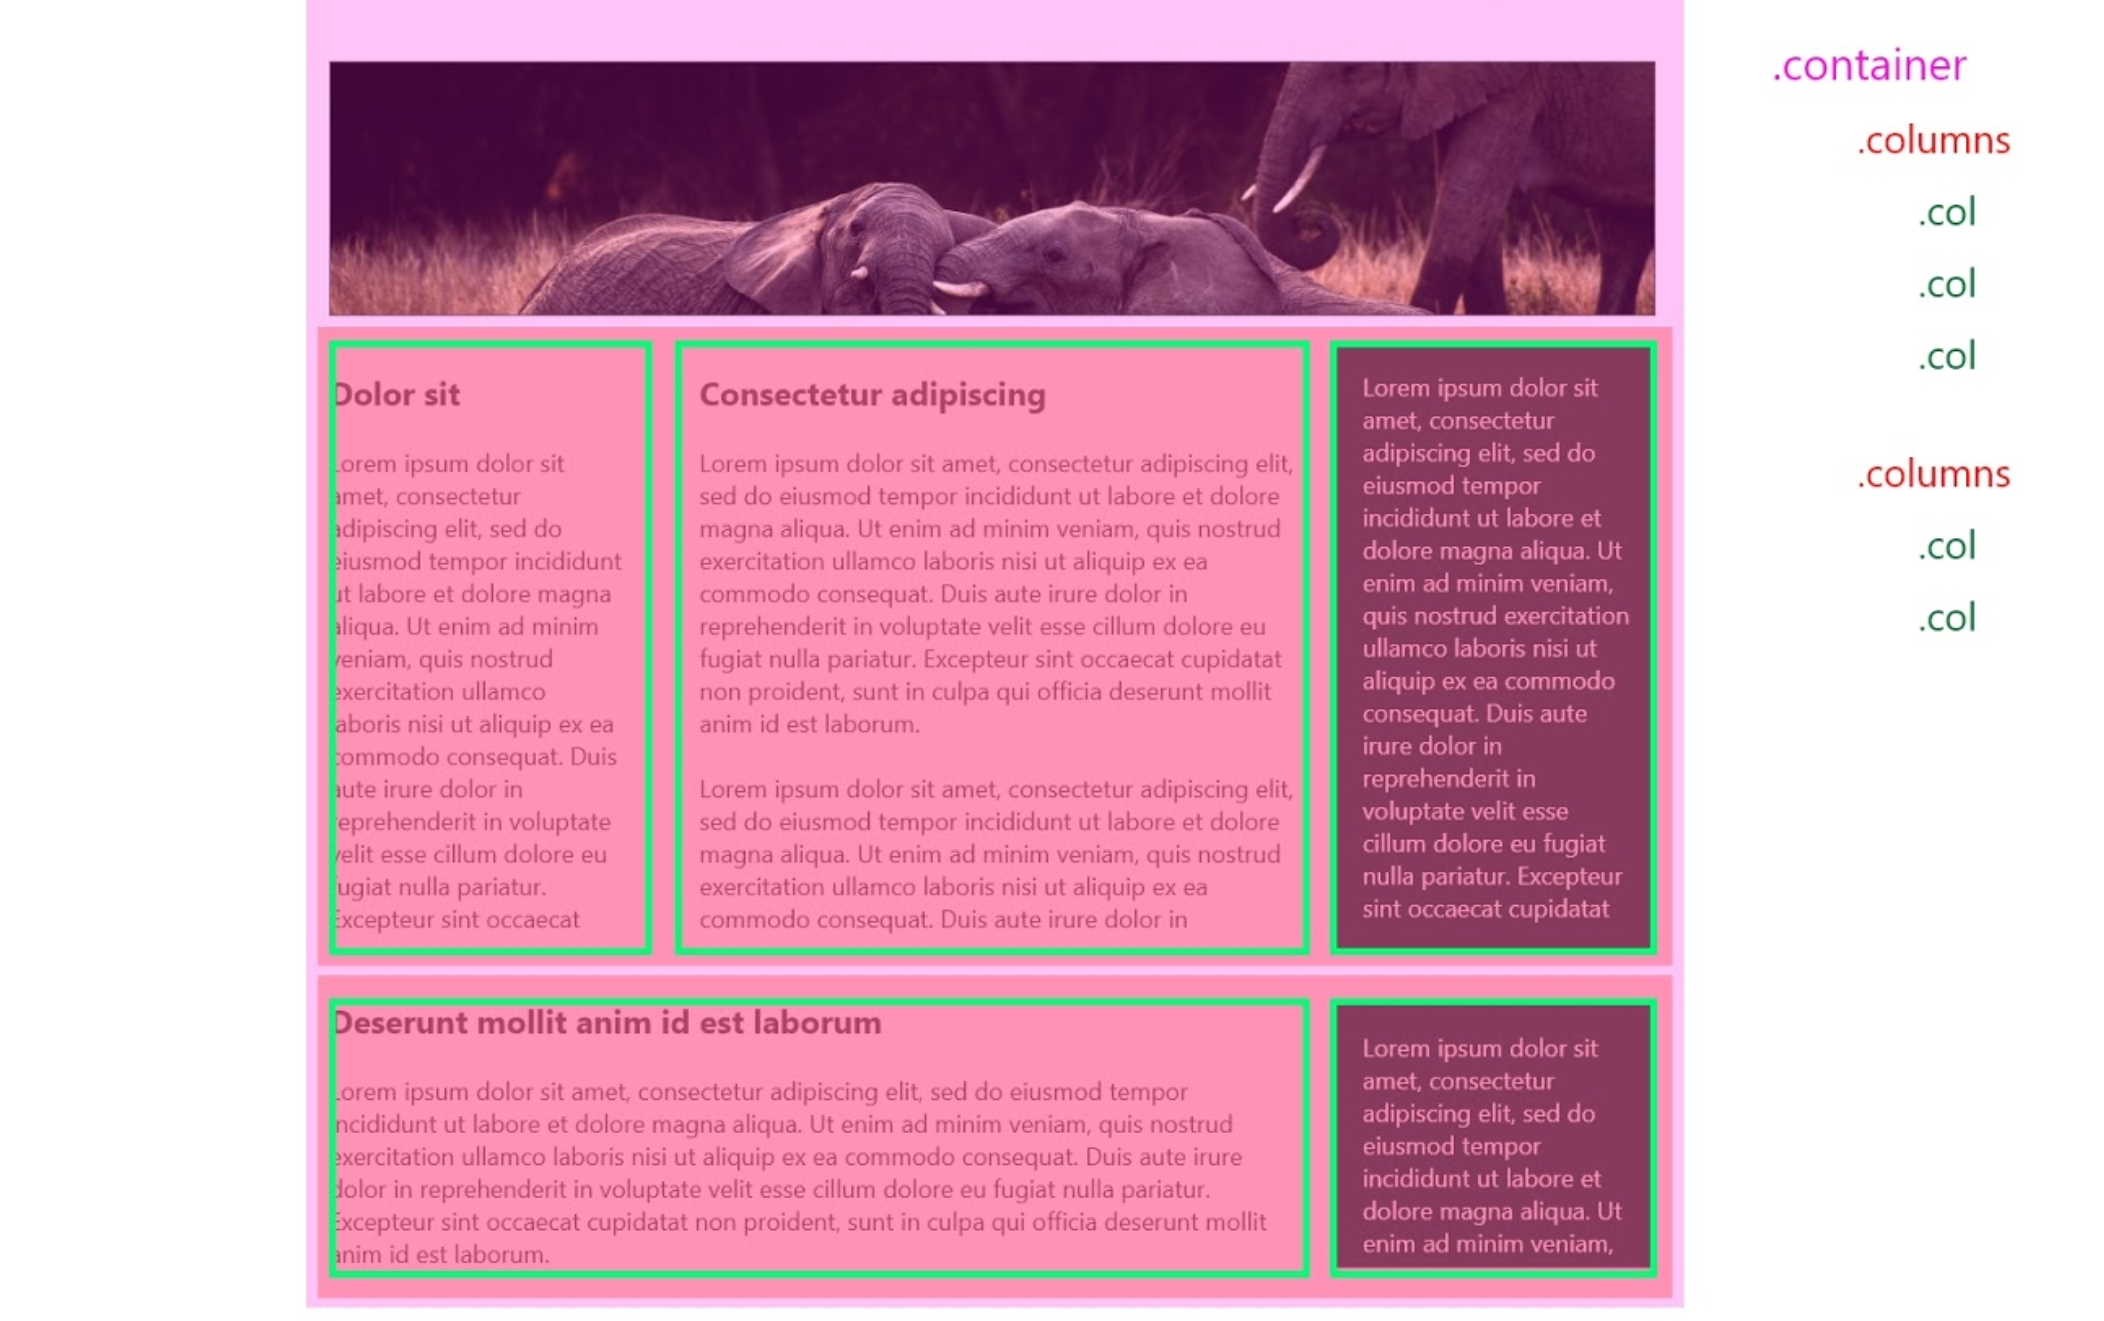
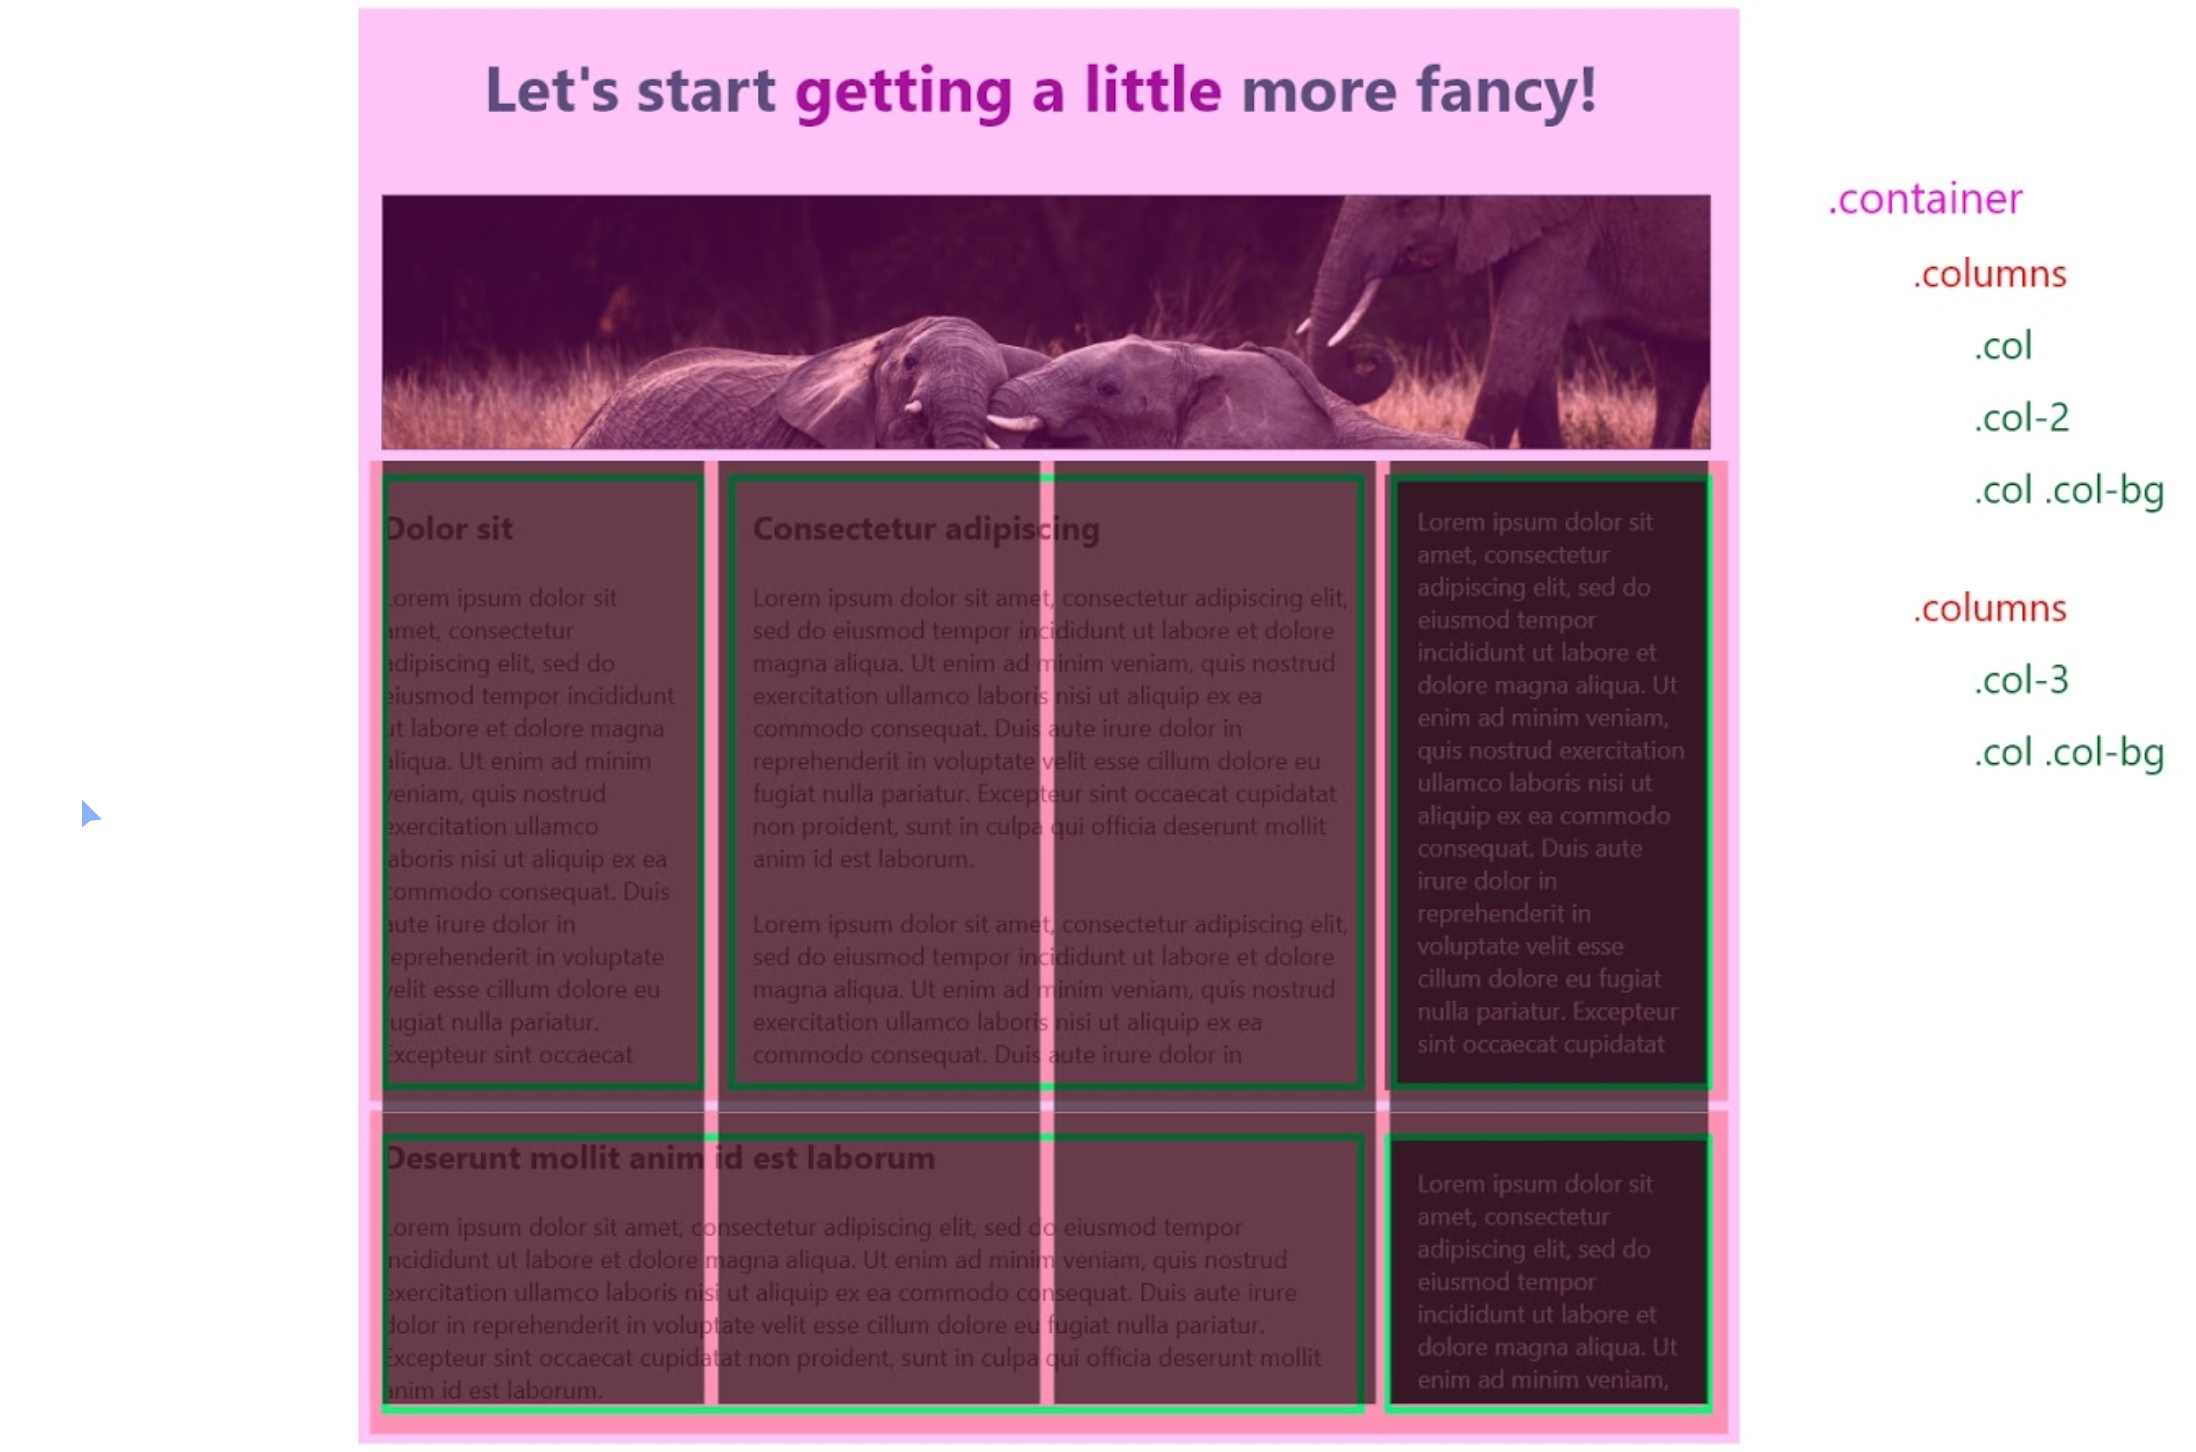
changed layout image

diff --git a/Reviewing Flexbox/index.html b/Reviewing Flexbox/index.html
@@ -4,37 +4,37 @@
         <link rel="stylesheet" href="css/style.css">
     </head>
     <body>
-        
+        <!-- Begin Container -->
         <div class="container">
-            <h1>Let's start <span class="color-accent">getting a little</span> more fancy!</h1>
+            <h1>Let's start <span>getting a little</span> more fancy!</h1>
             <img src="images/elephants.jpg" alt="elephants">
 
             <div class="columns">
-                <div class="col">
+                <div class="col col-1">
                     <h2>Dolor sit</h2>
                     <p>Lorem ipsum dolor sit amet, consectetur adipiscing elit, sed do eiusmod tempor incididunt ut labore et dolore magna aliqua. Ut enim ad minim veniam, quis nostrud exercitation ullamco laboris nisi ut aliquip ex ea commodo consequat. Duis aute irure dolor in reprehenderit in voluptate velit esse cillum dolore eu fugiat nulla pariatur. Excepteur sint occaecat</p>
                 </div>
-                <div class="col">
+                <div class="col col-2">
                     <h2>Consectetur adipiscing</h2>
                     <p>Lorem ipsum dolor sit amet, consectetur adipiscing elit, sed do eiusmod tempor incididunt ut labore et dolore magna aliqua. Ut enim ad minim veniam, quis nostrud exercitation ullamco laboris nisi ut aliquip ex ea commodo consequat. Duis aute irure dolor in reprehenderit in voluptate velit esse cillum dolore eu fugiat nulla pariatur. Excepteur sint occaecat cupidatat non proident, sunt in culpa qui officia deserunt mollit anim id est laborum.</p>
                     <p>Lorem ipsum dolor sit amet, consectetur adipiscing elit, sed do eiusmod tempor incididunt ut labore et dolore magna aliqua. Ut enim ad minim veniam, quis nostrud exercitation ullamco laboris nisi ut aliquip ex ea commodo consequat. Duis aute irure dolor in </p>
                 </div>
-                <div class="col">
+                <div class="col col-bg col-1">
                     <p>Lorem ipsum dolor sit amet, consectetur adipiscing elit, sed do eiusmod tempor incididunt ut labore et dolore magna aliqua. Ut enim ad minim veniam, quis nostrud exercitation ullamco laboris nisi ut aliquip ex ea commodo consequat. Duis aute irure dolor in reprehenderit in voluptate velit esse cillum dolore eu fugiat nulla pariatur. Excepteur sint occaecat</p>
                 </div>
             </div>
 
             <div class="columns">
-                <div class="col">
+                <div class="col col-3">
                     <h2>Deserunt mollit anim id est laborum</h2>
                     <p>Lorem ipsum dolor sit amet, consectetur adipiscing elit, sed do eiusmod tempor incididunt ut labore et dolore magna aliqua. Ut enim ad minim veniam, quis nostrud exercitation ullamco laboris nisi ut aliquip ex ea commodo consequat. Duis aute irure dolor in reprehenderit in voluptate velit esse cillum dolore eu fugiat nulla pariatur. Excepteur sint occaecat cupidatat non proident, sunt in culpa qui officia deserunt mollit anim id est laborum.</p>
                 </div>
-                <div class="col">
+                <div class="col col-bg col-1">
                     <p>Lorem ipsum dolor sit amet, consectetur adipiscing elit, sed do eiusmod tempor incididunt ut labore et dolore magna aliqua. Ut</p>
                 </div>
             </div>
         </div>
-
+        <!-- End Container -->
     </body>
 </html>
 

diff --git a/Reviewing Flexbox/css/style.css b/Reviewing Flexbox/css/style.css
@@ -1,3 +1,65 @@
+html {
+
+}
+
+body {
+    font-family: sans-serif;
+    font-size: 1.125rem; 
+    color: #707070;
+    margin: 0;
+}
+
+/* Typography */
+
+h1 {
+    font-size: 3rem;
+    color: #312614;
+    text-align: center;
+}
+
+h2 {
+    font-size: 1.5rem;
+}
+
+p {
+    margin-top: 0;
+}
+
+h1 span {
+    color: #B7832F;
+}
+
+/* Layout */
+
+img {
+    max-width: 100%;
+}
+
+.container {
+    width: 95%;
+    max-width: 980px;
+    margin: 0 auto;
+}
+
 .columns {
     display: flex;
+    margin: 1em 0;
+}
+
+.col-1 {
+    width: 25%;
+}
+
+.col-2 {
+    width: 50%;
+}
+
+.col-3 {
+    width: 75%;
+}
+
+.col-bg {
+    background-color: #312614;
+    color: white;
+    padding: 1em;
 }
